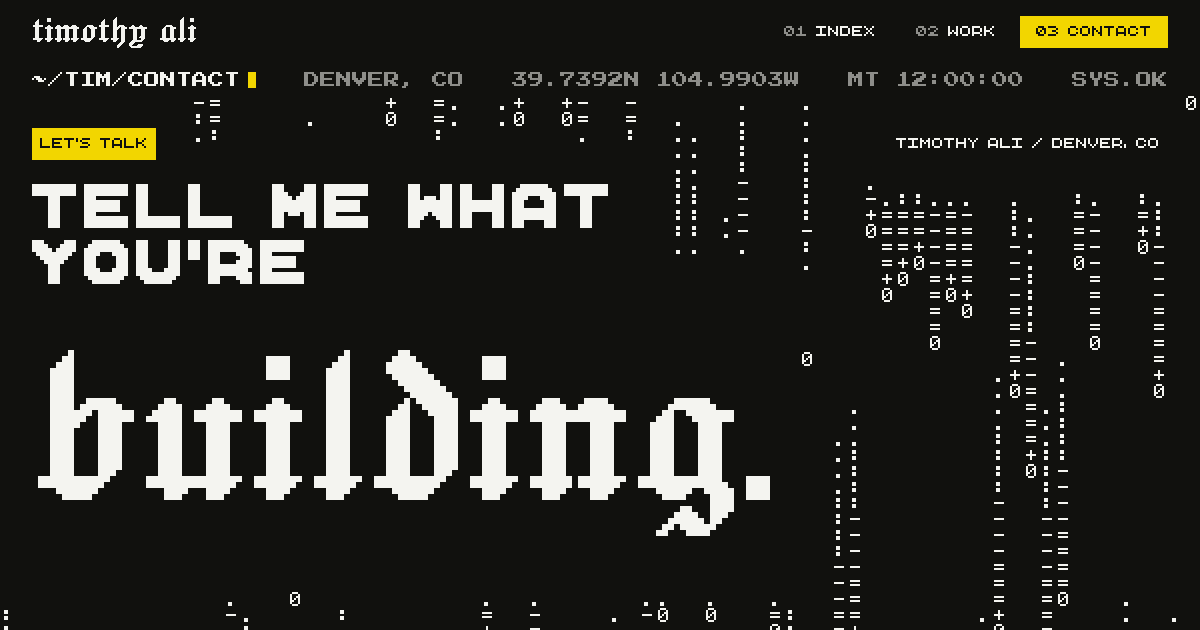
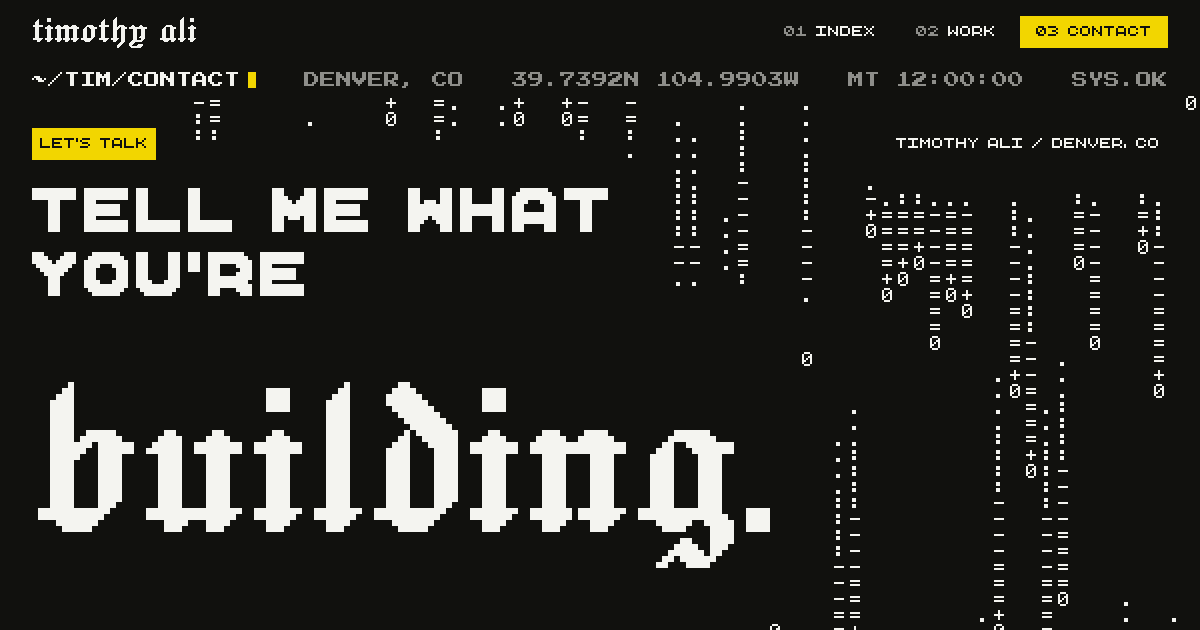
Social: Instagram launch story from the /og/ route (0087)

diff --git a/src/routes/og/[id]/+page.svelte b/src/routes/og/[id]/+page.svelte
@@ -22,11 +22,22 @@
   onMount(() => { fit(); document.fonts?.ready.then(fit); });
 </script>
 <svelte:head><title>og/{data.id}</title><meta name="robots" content="noindex" /></svelte:head>
-<main class="og" id="main" tabindex="-1">
+<main class="og" class:story={data.id === 'story'} id="main" tabindex="-1">
   {#if data.id === 'home'}
     <Band class="og-home" mode="sky" seed={3} density={0.9} avoid=".og-line, .og-name">
       <p class="display og-line">Designer for teams<br />that don’t have one yet.</p>
       <h1 class="blackletter og-name"><Decode text="i’m tim." /><Cursor size="em" /></h1>
+    </Band>
+  {:else if data.id === 'story'}
+    <!-- Instagram story, 1080×1920, viewed at about a third of that: the small roles step
+         up their own ladder (label 12.5 → 25, arrow 16 → 24) and everything sits inside the
+         story safe zone (y 270–1540). The generator hides the chrome for this one. -->
+    <Band class="og-story" mode="sky" seed={3} density={0.9} avoid=".story-top > *, .story-name, .story-line, .story-cards, .story-cta">
+      <div class="story-top"><span class="wordmark blackletter">timothy ali</span><span class="lbl story-chip">New site</span></div>
+      <h1 class="blackletter story-name"><Decode text="i’m tim." /><Cursor size="em" /></h1>
+      <p class="display story-line">Designer for teams<br />that don’t have<br />one yet.</p>
+      <div class="story-cards">{#each projects as p}<div class="card"><Picture src={p.cover.src} alt="" width={p.cover.w} height={p.cover.h} eager /></div>{/each}</div>
+      <Cta href="https://www.timothyali.com" class="lbl story-cta">timothyali.com <Arrow /></Cta>
     </Band>
   {:else if data.id === 'work'}
     <Band class="og-work" mode="fall" seed={5} density={0.7} avoid=".og-head > *, .og-covers">
@@ -62,6 +73,17 @@
 /* the frame: 1200 − 96 of chrome = 534, with the page gutters */
 .og{height:534px;overflow:hidden}
 .og :global(.band){position:relative;isolation:isolate;overflow:hidden;height:534px;padding:var(--s4) var(--gutter)}
+
+/* Story — full frame, no chrome (the generator hides it), content in the safe zone */
+.og.story{height:1920px}
+.og.story :global(.band){height:1920px;padding:256px var(--gutter) 0;display:flex;flex-direction:column;align-items:flex-start;gap:var(--s4)}
+.story-top{align-self:stretch;display:flex;justify-content:space-between;align-items:center}
+.story-chip{font-size:25px;line-height:32px;background:var(--accent);color:var(--on-accent);padding:var(--s1) var(--s2)}
+.story-name{font-size:258px;line-height:258px;white-space:nowrap}
+.story-line{font-size:55px;line-height:64px}
+.story-cards{align-self:stretch;display:grid;grid-template-columns:1fr 1fr;gap:var(--s2)}
+.og :global(.story-cta){font-size:25px;line-height:32px}
+.og :global(.story-cta .mono){font-size:24px;line-height:32px}
 
 /* Home — the hero at share size: the sentence up top, the name at the foot */
 .og-line{font-size:41.25px;line-height:48px}

diff --git a/src/routes/og/[id]/+page.ts b/src/routes/og/[id]/+page.ts
@@ -7,7 +7,7 @@ export const prerender = true;
 export const entries = () => [];
 export function load({ params }) {
   const id = params.id;
-  if (id === 'home') return { id, chromePath: '/' };
+  if (id === 'home' || id === 'story') return { id, chromePath: '/' };
   if (id === 'work' || id === 'contact') return { id, chromePath: `/${id}/` };
   const project = studies.find((p) => p.slug === id);
   if (!project) error(404);

diff --git a/docs/decision-log.md b/docs/decision-log.md
@@ -1368,3 +1368,10 @@ Timothy found the first OG set boring compared with the site and requested the t
 **Decision.** `src/routes/sitemap.xml/+server.ts` prerenders the twelve public URLs from `socialPages` (no `lastmod`: a build date would be a lie); `robots.txt` points at it. `src/lib/seo.ts` emits one JSON-LD graph per page through `SocialMeta`: Person + WebSite on Home, a BreadcrumbList on every inner page, a CollectionPage on Work, and a CreativeWork per study (cover image, first year, scope, live URL, author → the Person). The Person carries the site’s own positioning, Denver, and the two public profiles the old site listed (LinkedIn, GitHub). `meta name="author"` on every page. A 404 page in the system (`/not-found`, prerendered without a trailing slash to `build/not-found.html`, `noindex`), which the 404 route in `vercel.json` serves for unknown paths. The layout preloads the five faces the chrome and first fold use (68KB together). `pnpm social:verify` now also checks the sitemap, parses every page’s JSON-LD, and expects `404.html`.
 
 **Not done, on purpose.** No `og:type: article` on studies (they are portfolio pages, not articles); no Twitter handle (none given); no analytics.
+
+## 0087 — Launch story, rendered by the site
+
+- **Date:** 2026-09-10
+- **Status:** Timothy’s request (“lets make a post for my instagram story”); assistant composition awaiting his eye
+
+**Decision.** The story is one more id on the dev-only `/og/` route (`/og/story`), so it is drawn by the same components and field as the site: the sky hero field, wordmark and a “New site” chip, “i’m tim.” at 258 with the cursor, the positioning line at 55/64 on three deliberate lines, the selected four as cards, and a yellow `timothyali.com ->` block. The frame is 1080×1920 with the layout chrome hidden by the generator, and every element sits inside Instagram’s safe zone (y 256–1540). Because a story is viewed at about a third of its pixels, the two small roles step up their own ladders rather than being scaled: label 12.5 → 25 (the index accent size), arrow 16 → 24 (three cells). Output: `docs/social/story-launch.png`, regenerated by `pnpm social:generate`.
